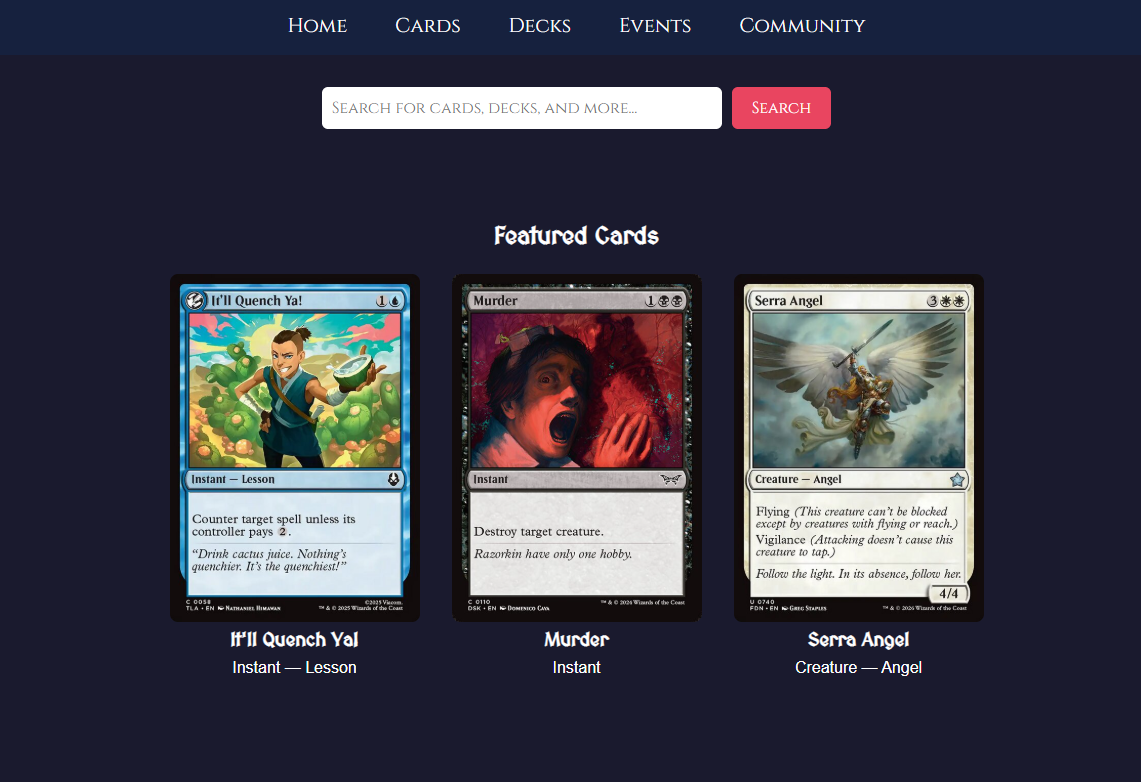
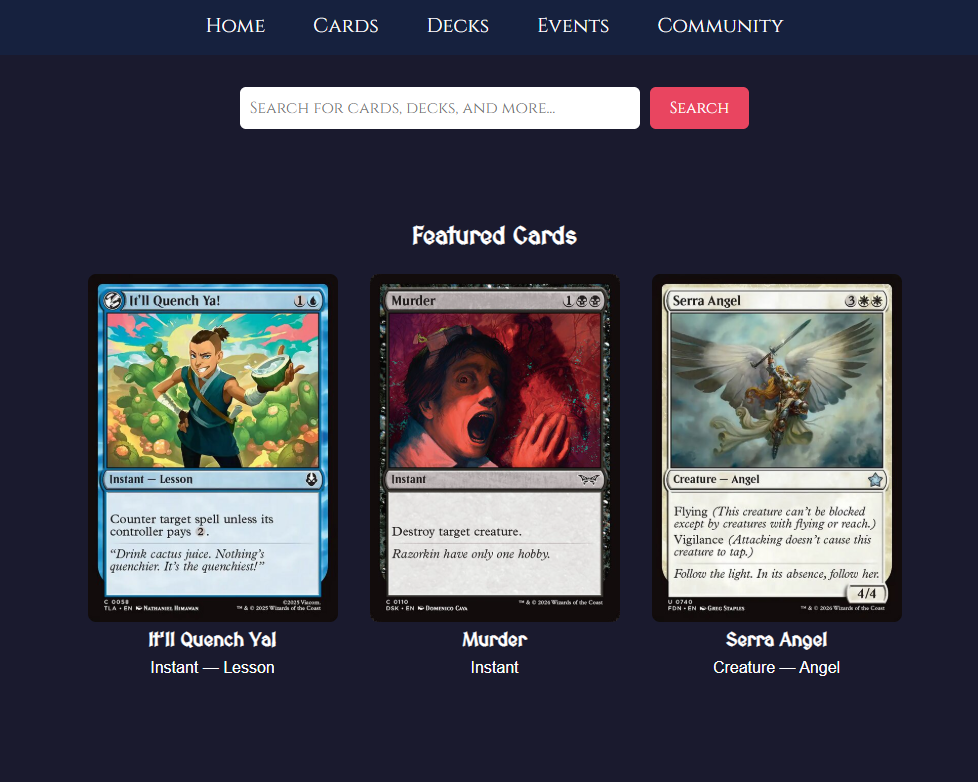
resize img

diff --git a/projects-page.css b/projects-page.css
@@ -150,7 +150,12 @@ hr {
   box-shadow: var(--text-shadow);
 }
 
-
+img {
+  max-width: 30%;
+  max-height: 30%;
+  border-radius: var(--border-radius);
+  box-shadow: var(--shadow);
+}
 
 
 
